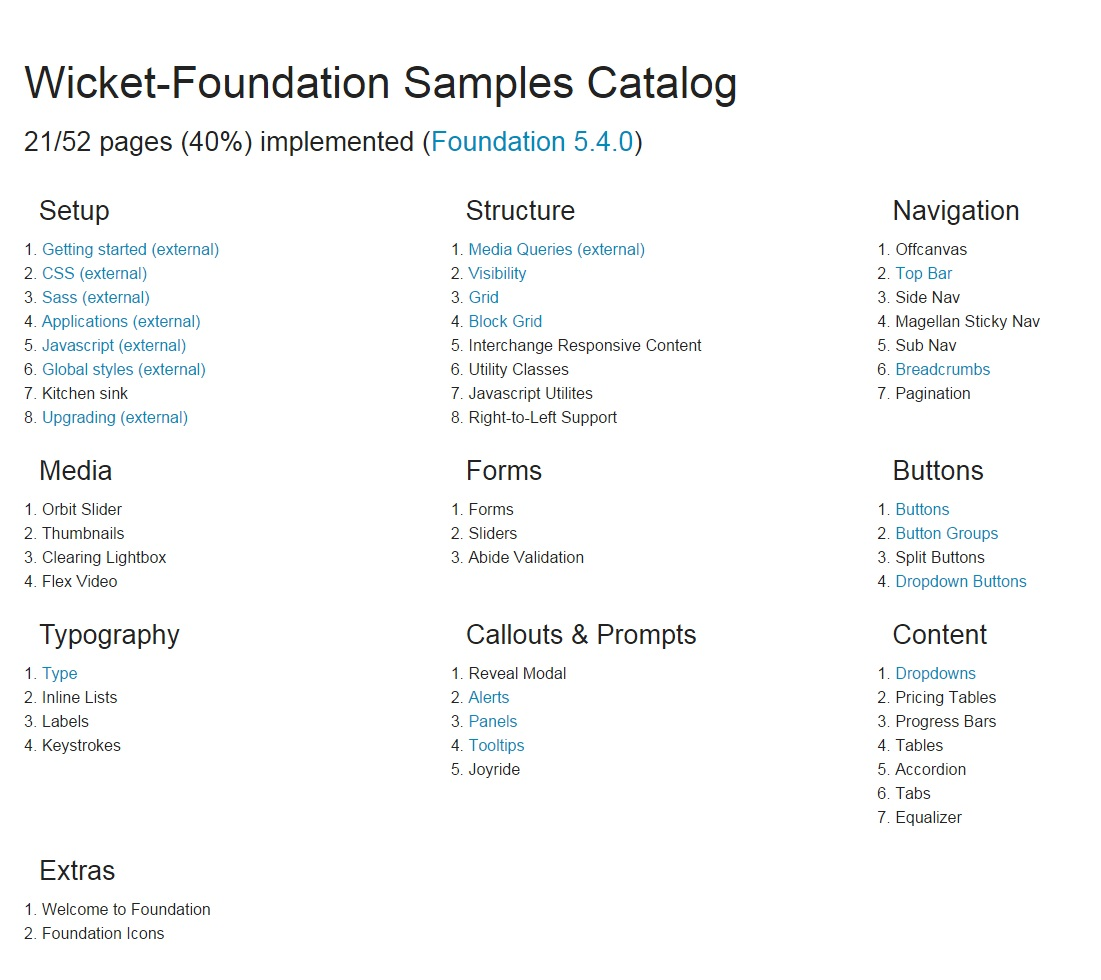
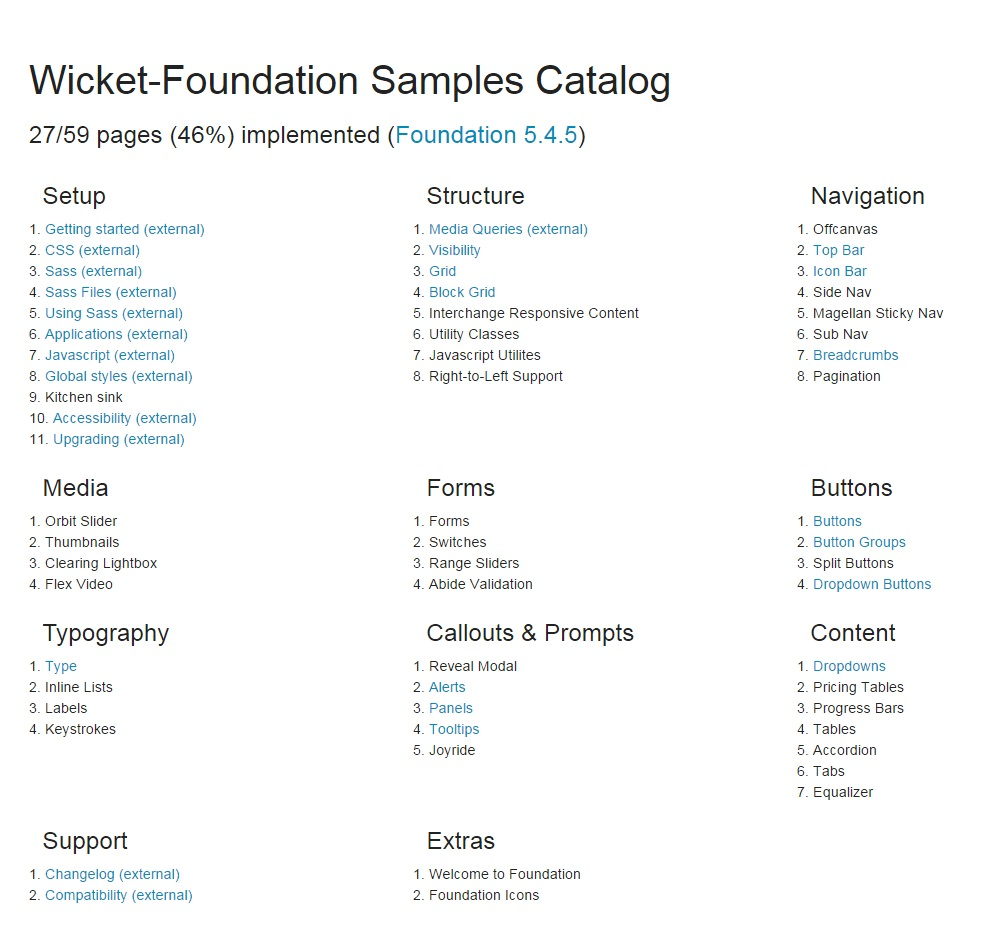
Updated catalog page and screenshot with new status.

diff --git a/wicket-foundation-samples/src/main/java/com/iluwatar/CatalogPage.html b/wicket-foundation-samples/src/main/java/com/iluwatar/CatalogPage.html
@@ -6,7 +6,7 @@
 		<h1>Wicket-Foundation Samples Catalog</h1>
 	</div>
     <div class="row">
-      <h3>26/59 pages (44%) implemented (<a href="http://foundation.zurb.com/" target="blank">Foundation 5.4.5</a>)</h3>
+      <h3>27/59 pages (46%) implemented (<a href="http://foundation.zurb.com/" target="blank">Foundation 5.4.5</a>)</h3>
     </div>
 
     <p>
